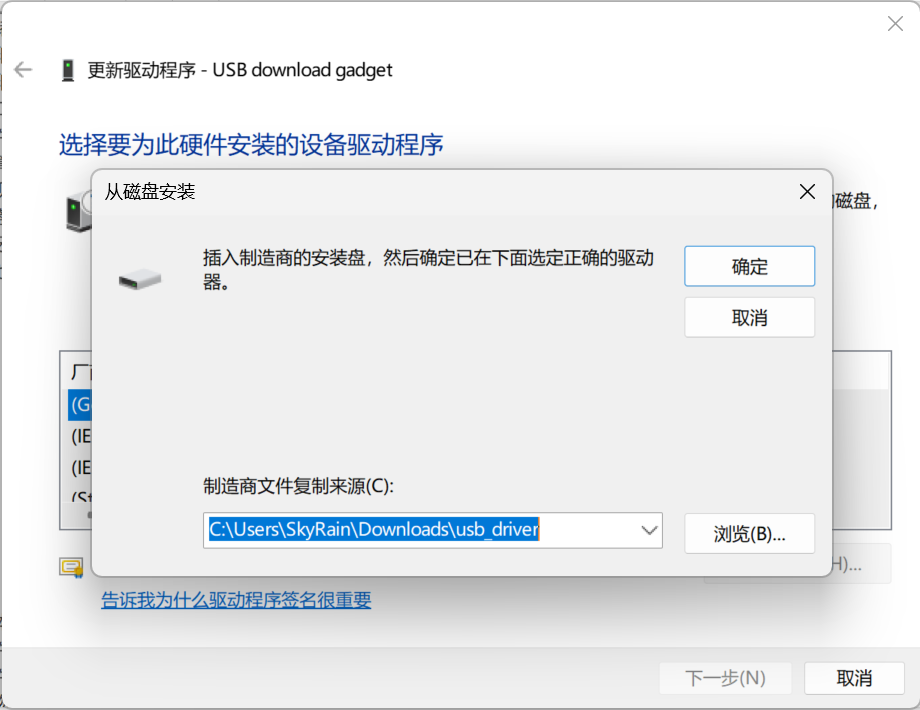
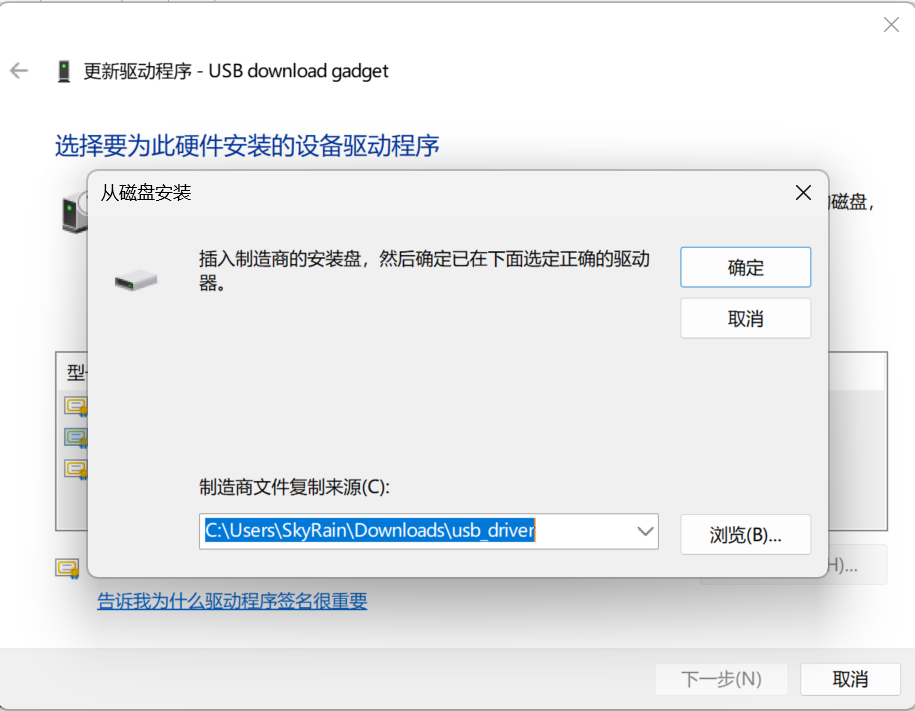
replace images in licheepi4a-windows.en.md; fix typo

diff --git a/docs/Installation/licheepi4a-windows.en.md b/docs/Installation/licheepi4a-windows.en.md
@@ -30,11 +30,11 @@ Please note that regardless of the flashing method used, existing user data will
 
 ## Booting from SD card
 
-Note! Booting from an SD card does not require changing the DIP switch! Set the DIP switch according to the eMMC settings!
+Note: Booting from an SD card does not require changing the DIP switch! Set the DIP switch to eMMC boot!
 
 ![DIP Switch Example](./image%20for%20flash/Switch.png)
 
-The DIP switch is located on the bottom of the board and can only be seen after removing the board. The correct setting should have both buttons aligned with the bottom.
+The DIP switch is located on the bottom of the carrier board and can only be seen after removing the LM4A SoM. The correct setting should be `BOOT_SEL[1:0]=0 0`, i.e. `SW1=SW2=off`.
 
 **Note!** Some early versions of LicheePi4A boards do not have a DIP switch.
 
@@ -58,15 +58,17 @@ Using the 20250123 image as an example:
 
 There are two ways to download the image:
 
-- Through web browsing. Simply click the link to download.
+- Through a web browser. Simply click the link to download.
 
-![Download image through web](./image%20for%20flash/web-download-windows.png)
+![Download image through web](./image%20for%20flash/web-download-windows-en.png)
 
 - Through command line. Open PowerShell and run the following command:
 
 ```powershell
 curl.exe -OL https://mirror.iscas.ac.cn/revyos/extra/images/lpi4a/20250123/sdcard-lpi4a-20250123_195216.img.zst
 ```
+
+> **Note**: `curl.exe` is [shipped in Windows as a default component since Windows 10](https://curl.se/windows/microsoft.html). If `curl.exe` isn't working, use web browser.
 
 Wait for the progress to reach 100% to complete the download.
 
@@ -78,7 +80,7 @@ Both methods will result in a compressed image file named `sdcard-lpi4a-20250123
 
 Open File Explorer, navigate to the folder containing the image file, right-click and select "Open in terminal"
 
-![Select "Open in terminal" from the context menu](./image%20for%20flash/context_menu_terminal_open_windows.png)
+![Select "Open in terminal" from the context menu](./image%20for%20flash/context_menu_terminal_open_windows-en.png)
 
 Click to open the PowerShell terminal. Enter the following command to get the `md5sum.txt` checksum from the mirror site:
 
@@ -86,7 +88,7 @@ Click to open the PowerShell terminal. Enter the following command to get the `m
 curl.exe -L https://mirror.iscas.ac.cn/revyos/extra/images/lpi4a/20250123/md5sum.txt
 ```
 
-This should display the theoretical checksums for various image files. Run the following command to calculate the local image checksum:
+This should display the checksums for various image files. Run the following command to calculate the local image checksum:
 
 ```powershell
 Get-FileHash -Algorithm MD5 .\sdcard-lpi4a-20250123_195216.img.zst
@@ -99,8 +101,6 @@ Compare the two checksums, they should match. If not, you need to re-download th
 #### Extracting the Image
 
 The image is compressed with `zstd`, you can use compression tools like [PeaZip](https://peazip.github.io/) or [7-zip Zstd version](https://github.com/mcmilk/7-Zip-zstd) to extract it.
-
-![Extract image using Peazip](./image%20for%20flash/peazip_extraction_illustration.png)
 
 **Note**: After extraction, the image itself and the compressed file will occupy about **10.2GB** of space, please ensure you have enough space!
 
@@ -123,7 +123,7 @@ Download the flashing tool BalenaEtcher from the official website [https://etche
 5. After selecting both items, click "Flash" to write the image.
 6. After waiting for a while, it will show that the flashing is complete.
 
-![BalenaEtcher Flashing Process](./image%20for%20flash/balenaetcher-flashing-guide.png)
+![BalenaEtcher Flashing Process](./image%20for%20flash/balenaetcher-flashing-guide-en.png)
 
 ### Booting the System from SD Card
 
@@ -136,7 +136,7 @@ First connect the HDMI cable (if you need an external display), then connect the
 
 When booting the image from eMMC, there are two ways to flash the image: with or without connecting to a serial port. Considering that connecting to a serial port is not necessary, the default method is flashing without connecting to a serial port. If you have a serial cable, you can also choose to refer to the section on flashing with a serial connection. There are some differences in the operations involved. If you want to flash with a serial cable connected, please refer to the relevant section in the [Linux Flashing Tutorial](./licheepi4a.md).
 
-Please note! Remove the SD Card before booting from eMMC!
+**Please note**: Remove the SD Card before booting from eMMC!
 
 ### Preparation
 
@@ -156,7 +156,7 @@ If it can display the version number normally as shown above, it proves the inst
 
 Download the LicheePi4A system image through the above links.
 
-**Note**: The uboot files for different memory versions of LicheePi4A are not interchangeable. Please choose the corresponding image according to your core board version.
+**Note**: The uboot files for different memory versions of LicheePi4A are not interchangeable. Please choose the corresponding image according to your LiChee Pi4A SoM version.
 
 |Memory Storage Combination|Corresponding uboot Image|
 |---|---|
@@ -164,9 +164,9 @@ Download the LicheePi4A system image through the above links.
 |8G RAM + 32G eMMC|u-boot-with-spl-lpi4a-main.bin|
 |16G RAM|u-boot-with-spl-lpi4a-16g-main.bin|
 
-If you can't confirm the specifications of the core board, you can scan the QR code on the core board to check. When LicheePi4A boards are sold, there will be a QR code sticker on both the core board and the base board. After scanning the QR code sticker on the core board, it will display the memory + storage configuration of the core board.
+If you can't confirm the specifications of the Lichee Pi4A SoM, you can scan the QR code on the SoM to check. When LicheePi4A boards are sold, there will be a QR code sticker on both the SoM and the motherboard. After scanning the QR code sticker on the SoM/motherboard, it will display the memory and storage configuration of the SoM.
 
-For example, on a 16G RAM + 128G board, the sticker is in the part shown in the image
+For example, on a 16G RAM + 128G SoM, the sticker is in the part shown in the image
 
 ![core-card](./image%20for%20flash/core-card.png)
 
@@ -174,7 +174,7 @@ The display after scanning the QR code is as follows
 
 ![Core board-info](./image%20for%20flash/card-info.png)
 
-In the result after scanning, the second part of the number is the memory + storage configuration of the core board.
+In the result after scanning, the second part of the number is the memory + storage configuration of the SoM.
 
 After confirming the board specifications, download, verify, and extract the corresponding uboot, boot, and root files (the uboot file does not need to be extracted). This part can refer to the "Booting from SD Card" section above.
 
@@ -190,17 +190,17 @@ To install the fastboot driver, you need to download the [Google USB Driver (pro
 
 1. Right-click on "USB download gadget" in Device Manager, click "Update driver"
 2. Choose "Browse my computer for drivers"
-![Driver Update Step 2](./image%20for%20flash/driver-update-step2.png)
+![Driver Update Step 2](./image%20for%20flash/driver-update-step2-en.png)
 3. Select "Let me pick from a list of available drivers on my computer"
 4. Select "Show All Devices" and click "Next"
-![Driver Update Step 4](./image%20for%20flash/driver-update-step-4.png)
+![Driver Update Step 4](./image%20for%20flash/driver-update-step-4-en.png)
 5. Click "Have Disk"
 6. Click "Browse", select the inf file under the Google USB Driver, click OK
-![Driver Update Step 6](./image%20for%20flash/driver-update-step-6.png)
-7. Select "Android ADB Interface", click "Next", click "Yes" in the pop-up dialog, click "Install" in the Windows Security Center dialog that pops up
-![Driver Update Step 7](./image%20for%20flash/driver-update-step7.png)
+![Driver Update Step 6](./image%20for%20flash/driver-update-step-6-en.png)
+7. Select "Android Bootloader Interface", click "Next", click "Yes" in the pop-up dialog, click "Install" in the Windows Security Center dialog that pops up
+![Driver Update Step 7](./image%20for%20flash/driver-update-step7-en.png)
 8. Successfully installed the fastboot driver
-![Driver Update Step 8](./image%20for%20flash/driver_update_step8.png)
+![Driver Update Step 8](./image%20for%20flash/driver_update_step8-en.png)
 
 If there are problems with the above steps, please go back to Device Manager, find the device, click "Uninstall driver", then unplug and replug the development board and try again.
 
@@ -221,7 +221,7 @@ Return to the PowerShell terminal containing `fastboot.exe`, enter the following
 
 Then proceed with flashing the image files
 
-**Note**: For a small number of boards, after executing the command, Device Manager may detect an incorrect device instead of `Android ADB Interface`. This is due to the change in USB VID and PID of uboot, common when flashing from factory uboot to RevyOS uboot. Uninstall the device and reinstall the driver to resolve this.
+**Note**: For a small number of boards, after executing the command, Device Manager may detect an incorrect device instead of `Android Bootloader Interface`. This is due to the change in USB VID and PID of uboot, common when flashing from factory uboot to RevyOS uboot. Uninstall the device and reinstall the driver to resolve this.
 
 ```powershell
 # Replace the following three lines with the paths to the uboot, boot, root files corresponding to your board specifications, you can drag and drop the files in File Explorer to the terminal to quickly input the file paths

diff --git a/docs/Installation/licheepi4a-windows.md b/docs/Installation/licheepi4a-windows.md
@@ -34,7 +34,7 @@ LicheePi4A 目前支持两种启动方式，分别是[从SD card 启动](#sd-car
 
 ![拨码开关示例图](./image%20for%20flash/Switch.png)
 
-拨码开关存在于板卡下方，需要取出板卡后才能看到，正确设置应为两个按钮全部对准下方。
+拨码开关存在于核心板下方，需要取出核心板后才能看到，正确设置应为两个按钮全部对准下方，即`BOOT_SEL[1:0]=0 0`。
 
 **注意！** 部分早期版本的 LicheePi4A 板卡没有拨码开关。
 
@@ -67,6 +67,8 @@ LicheePi4A 目前支持两种启动方式，分别是[从SD card 启动](#sd-car
 ```powershell
 curl.exe -OL https://mirror.iscas.ac.cn/revyos/extra/images/lpi4a/20250123/sdcard-lpi4a-20250123_195216.img.zst
 ```
+
+> **注**：`curl.exe`[从Windows 10起作为一个默认组件存在于Windows系统中](https://curl.se/windows/microsoft.html)。如果找不到`curl.exe`，可以使用浏览器下载的方法作为替代。
 
 即可下载。等待进度到达100%即表示下载完成。
 
@@ -197,7 +199,7 @@ Get-FileHash -Algorithm MD5 .\sdcard-lpi4a-20250123_195216.img.zst
 5. 点击“从磁盘安装”
 6. 点击“浏览”，选中Google USB驱动下的inf文件，点击确定
 ![更新驱动程序步骤6](./image%20for%20flash/driver-update-step-6.png)
-7. 选中“Android ADB Interface”，点击“下一步”，在弹出对话框中点击“是”，在弹出的Windows安全中心对话框中点击“安装”
+7. 选中“Android Bootloader Interface”，点击“下一步”，在弹出对话框中点击“是”，在弹出的Windows安全中心对话框中点击“安装”
 ![更新驱动程序步骤7](./image%20for%20flash/driver-update-step7.png)
 8. 成功安装fastboot驱动
 ![更新驱动程序步骤8](./image%20for%20flash/driver_update_step8.png)
@@ -222,7 +224,7 @@ Get-FileHash -Algorithm MD5 .\sdcard-lpi4a-20250123_195216.img.zst
 
 然后再进行镜像文件的刷写
 
-**注意**：有少部分的板卡在执行命令后，设备管理器会检测到错误的设备，而不是`Android ADB Interface`。这是由于uboot的USB VID和PID改变所致，常见于从原厂uboot刷入RevyOS uboot时。卸载设备并重新安装驱动程序即可解决。
+**注意**：有少部分的板卡在执行命令后，设备管理器会检测到错误的设备，而不是`Android Bootloader Interface`。这是由于uboot的USB VID和PID改变所致，常见于从原厂uboot刷入RevyOS uboot时。卸载设备并重新安装驱动程序即可解决。
 
 ```powershell
 # 以下三行替换为您的板卡规格对应的 uboot boot root 文件的路径，可在资源管理器中将文件拖放到终端以快捷输入文件的路径
